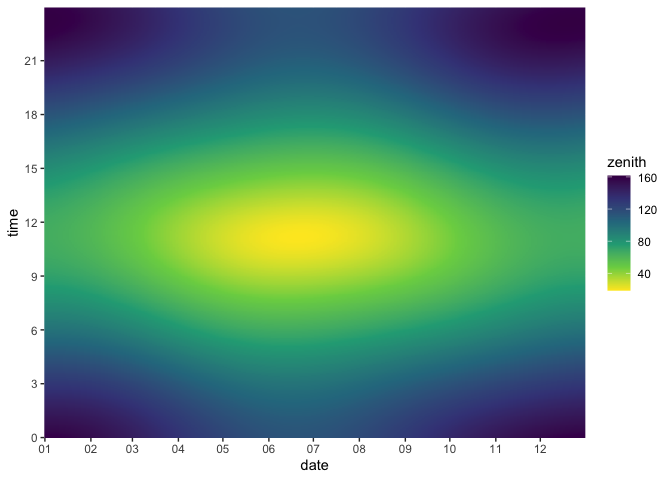
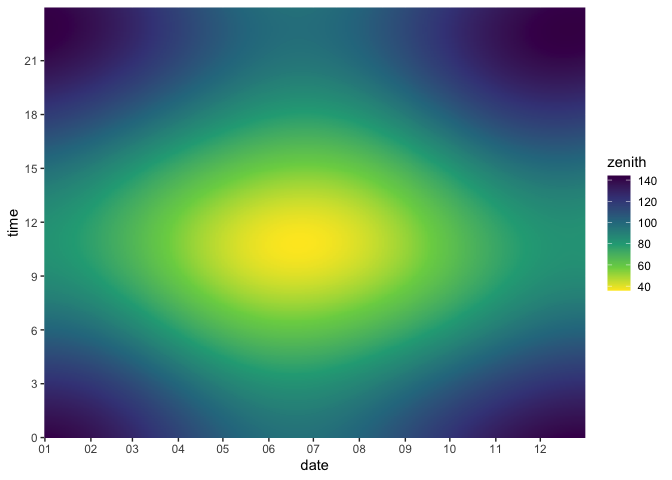
switch location to Stockholm
It's a bit more interesting.

diff --git a/carpet.md b/carpet.md
@@ -4,11 +4,11 @@ solarpos-cli data
 
 First, run [solarpos-cli](https://github.com/KlausBrunner/solarpos-cli)
 and capture its output in a CSV file. We’re getting position data for
-the entire year 2023 in Rome, Italy. Depending on your setup, you may
-have to add the “java” command and an absolute path.
+the entire year 2023 in Stockholm, Sweden. Depending on your setup, you
+may have to add the “java” command and an absolute path.
 
 ``` sh
-solarpos-cli.jar 41.8933 12.4828 2023 --timezone UTC --deltat --format=csv position --step=180 > /tmp/sunpositions.csv
+solarpos-cli.jar 59.325 18.05 2023 --timezone UTC --deltat --format=csv position --step=180 > /tmp/sunpositions.csv
 ```
 
 Now read that CSV file, dropping what we don’t need and regrouping the
@@ -40,16 +40,16 @@ sunpath
     ## # A tibble: 175,200 × 3
     ##    zenith date        time
     ##     <dbl> <date>     <dbl>
-    ##  1   159. 2023-01-01  0   
-    ##  2   158. 2023-01-01  0.05
-    ##  3   158. 2023-01-01  0.1 
-    ##  4   158. 2023-01-01  0.15
-    ##  5   158. 2023-01-01  0.2 
-    ##  6   157. 2023-01-01  0.25
-    ##  7   157. 2023-01-01  0.3 
-    ##  8   156. 2023-01-01  0.35
-    ##  9   156. 2023-01-01  0.4 
-    ## 10   156. 2023-01-01  0.45
+    ##  1   142. 2023-01-01  0   
+    ##  2   142. 2023-01-01  0.05
+    ##  3   141. 2023-01-01  0.1 
+    ##  4   141. 2023-01-01  0.15
+    ##  5   141. 2023-01-01  0.2 
+    ##  6   141. 2023-01-01  0.25
+    ##  7   141. 2023-01-01  0.3 
+    ##  8   140. 2023-01-01  0.35
+    ##  9   140. 2023-01-01  0.4 
+    ## 10   140. 2023-01-01  0.45
     ## # … with 175,190 more rows
 
 With the nicely prepared data, plotting should be straightforward now.
@@ -103,16 +103,16 @@ sunpath
     ## # A tibble: 175,200 × 4
     ##    zenith date        time light
     ##     <dbl> <date>     <dbl> <fct>
-    ##  1   159. 2023-01-01  0    night
-    ##  2   158. 2023-01-01  0.05 night
-    ##  3   158. 2023-01-01  0.1  night
-    ##  4   158. 2023-01-01  0.15 night
-    ##  5   158. 2023-01-01  0.2  night
-    ##  6   157. 2023-01-01  0.25 night
-    ##  7   157. 2023-01-01  0.3  night
-    ##  8   156. 2023-01-01  0.35 night
-    ##  9   156. 2023-01-01  0.4  night
-    ## 10   156. 2023-01-01  0.45 night
+    ##  1   142. 2023-01-01  0    night
+    ##  2   142. 2023-01-01  0.05 night
+    ##  3   141. 2023-01-01  0.1  night
+    ##  4   141. 2023-01-01  0.15 night
+    ##  5   141. 2023-01-01  0.2  night
+    ##  6   141. 2023-01-01  0.25 night
+    ##  7   141. 2023-01-01  0.3  night
+    ##  8   140. 2023-01-01  0.35 night
+    ##  9   140. 2023-01-01  0.4  night
+    ## 10   140. 2023-01-01  0.45 night
     ## # … with 175,190 more rows
 
 ``` r
@@ -142,5 +142,8 @@ plot
 ![](carpet_files/figure-gfm/unnamed-chunk-5-1.png)<!-- -->
 
 Doesn’t have the same mysterious vibe as the previous ones, but it’s a
-bit more useful now. Of course, don’t forget all times are UTC. You can
-also tell solarpos-cli to use the proper local timezone (Europe/Rome).
+bit more useful now: we can clearly see those very long Northern summer
+days and depressingly short winter days, peaking on 21 December and 21
+June, respectively. Of course, don’t forget all times are UTC. You can
+also tell solarpos-cli to use the proper local timezone
+(Europe/Stockholm).
